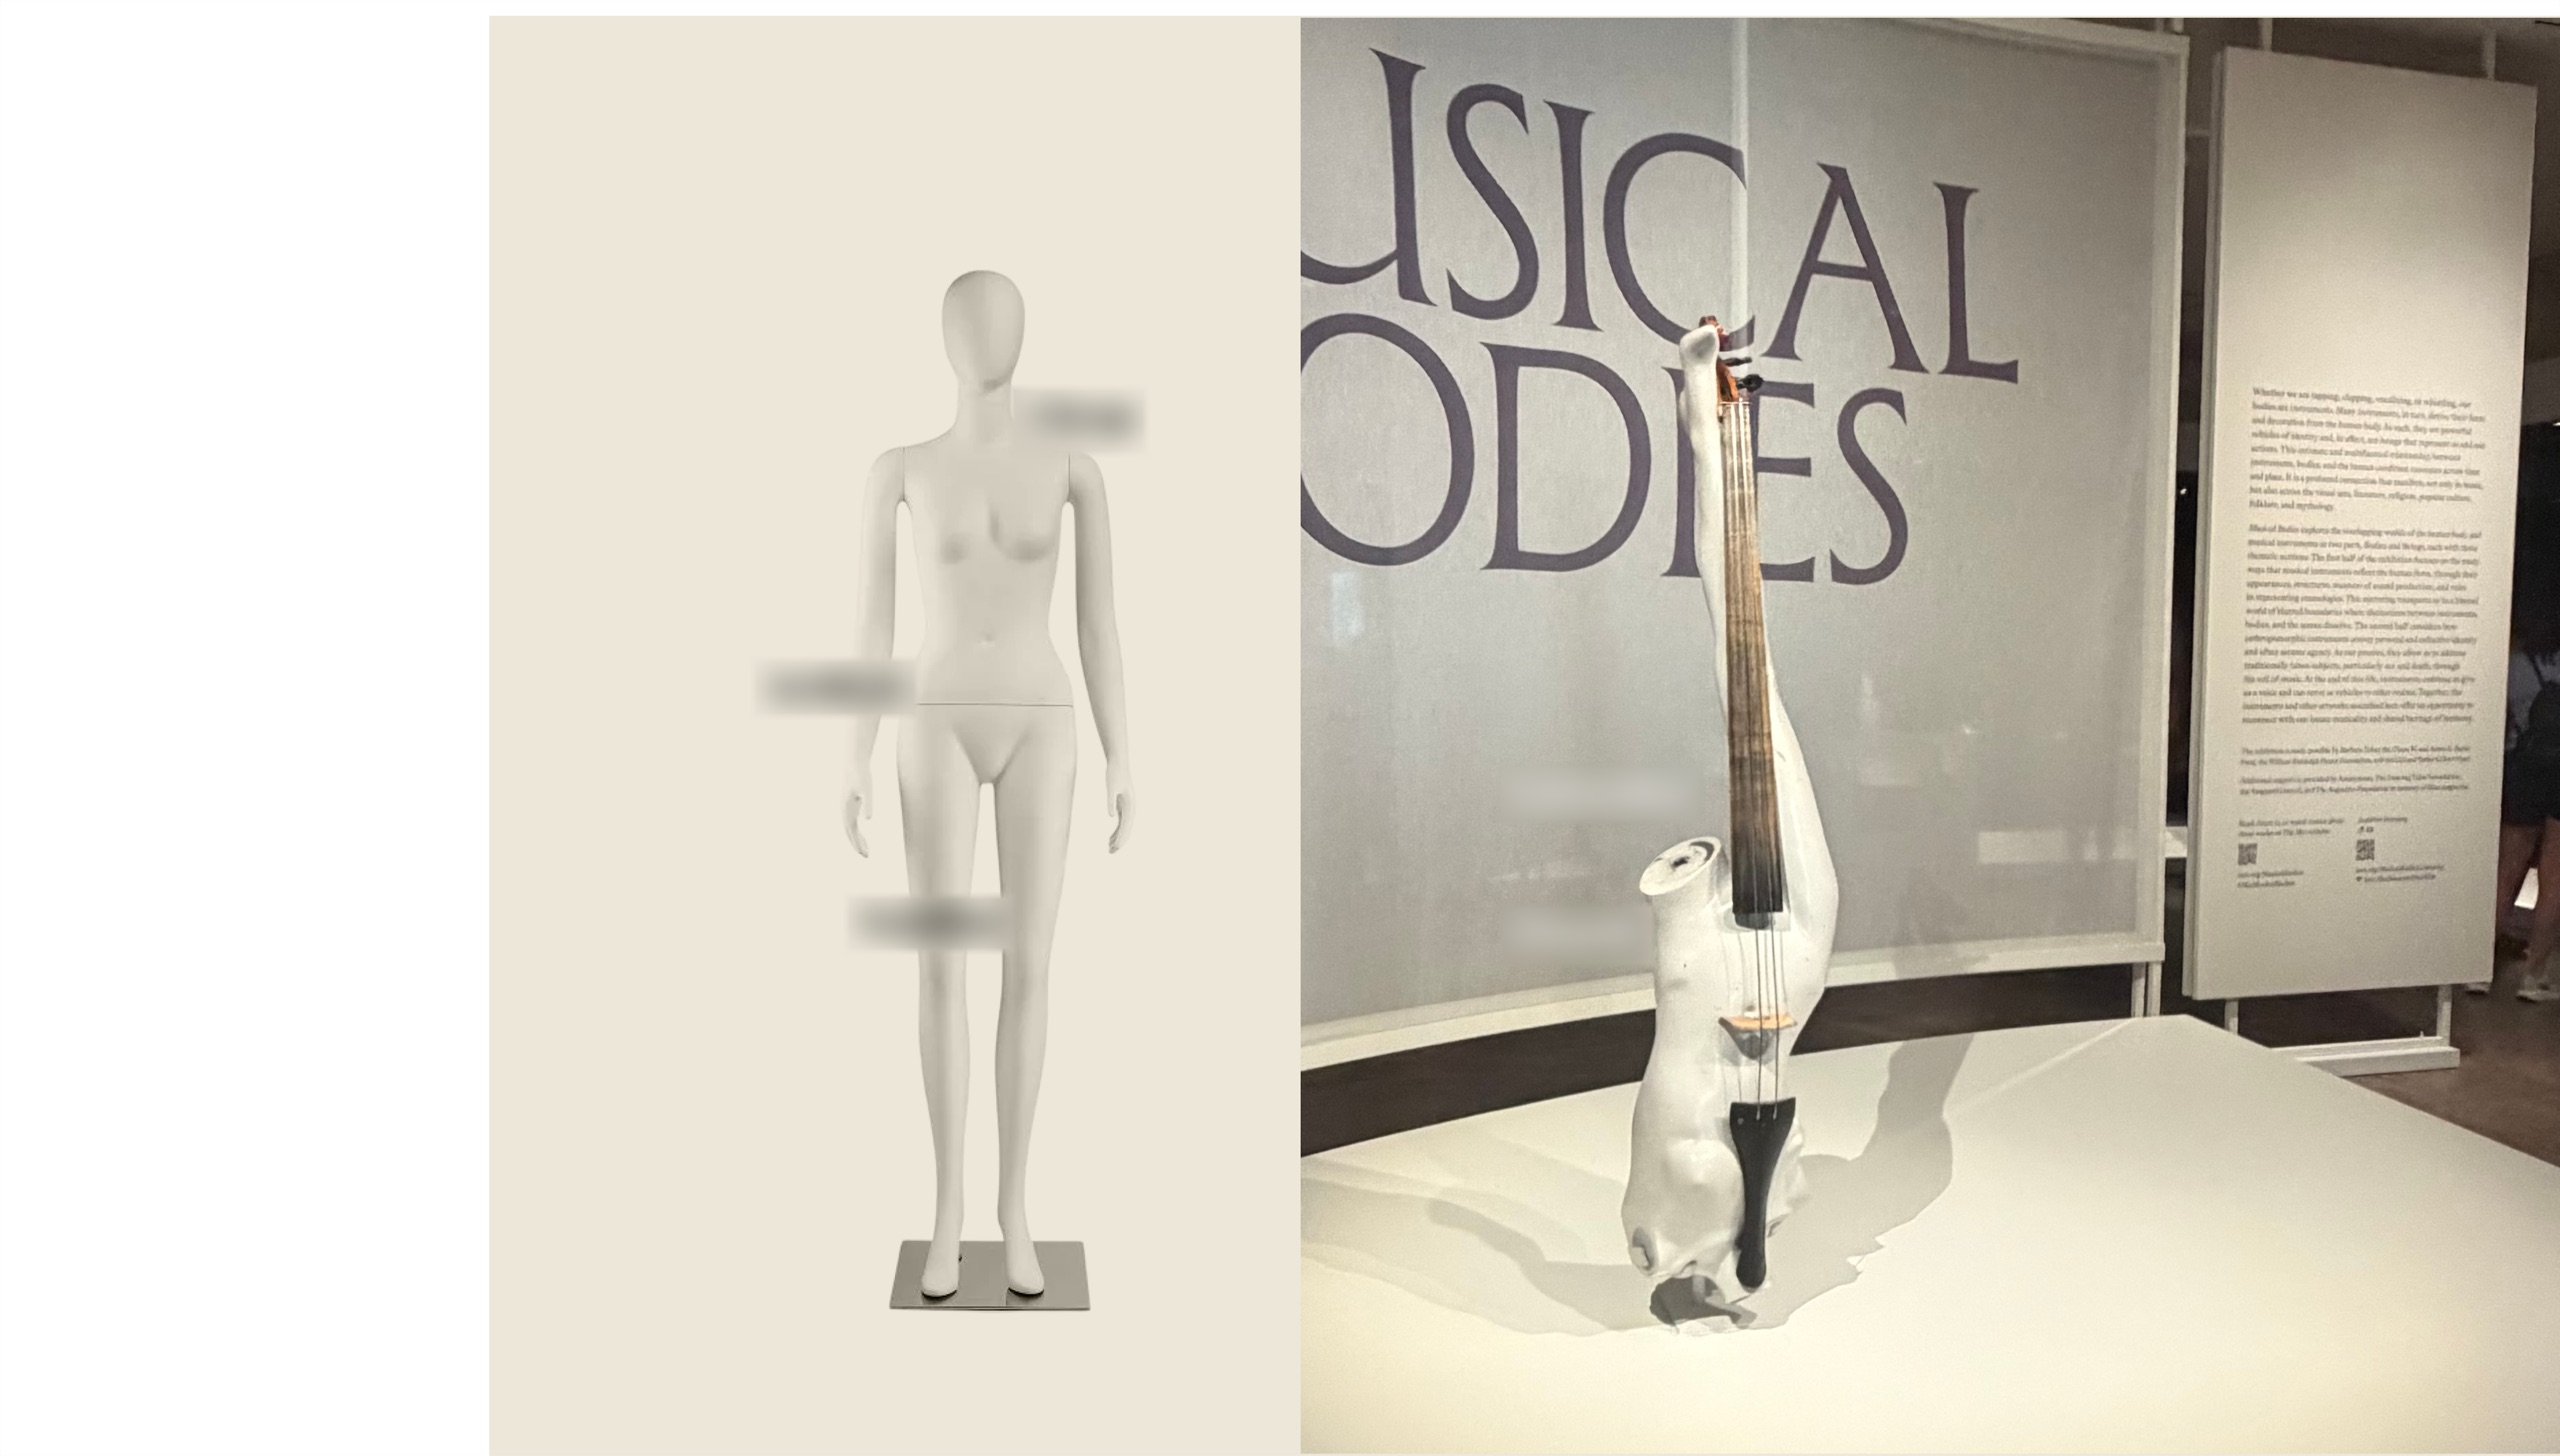
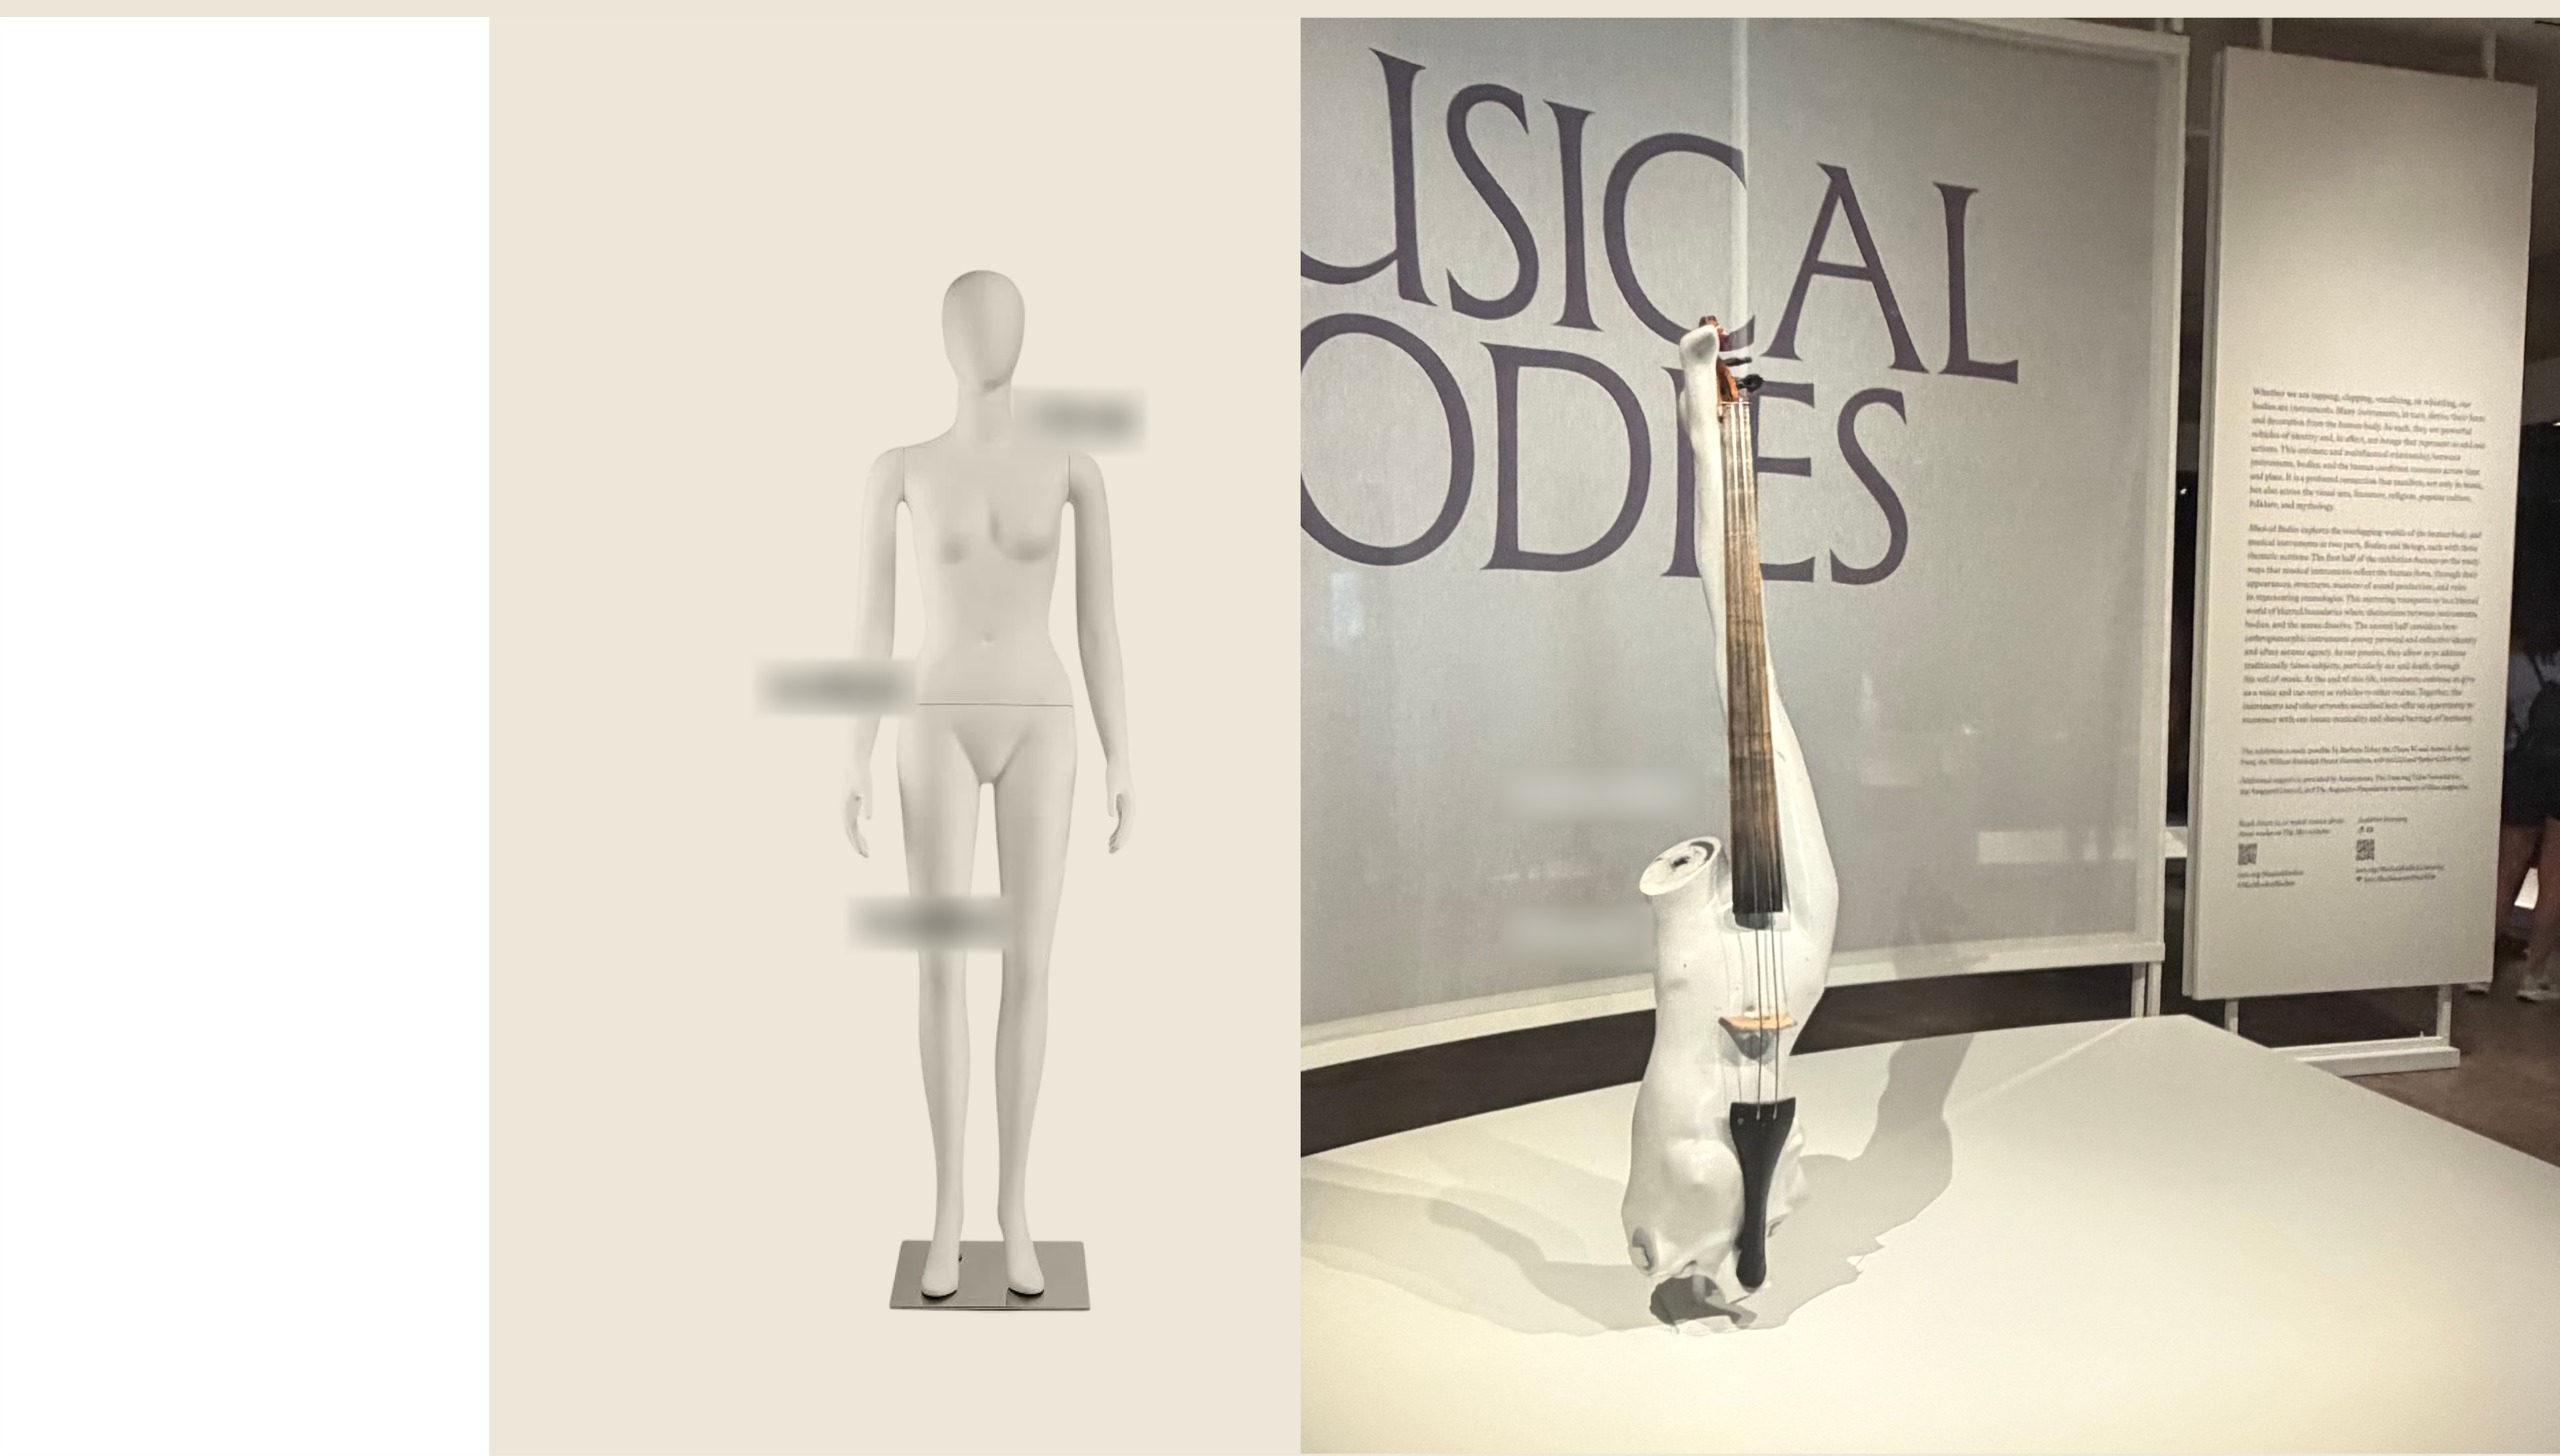
Fill white top edges of section 1 and 6 photos with background beige

Changed region(s): [[0.0, 0.0, 1.0, 0.0309]]

diff --git a/index.html b/index.html
@@ -32,8 +32,8 @@
   <!-- ============ SECTION 1 ============ -->
   <section class="panel s1" id="s1">
     <div class="stage">
-    <img class="plate" src="assets/section-1.jpg?v=20261012b" alt="Ken Butler, Mannequin Bass">
-      <div style="position:absolute;right:3%;top:28%;width:25%;aspect-ratio:1/1;">
+    <img class="plate" src="assets/section-1.jpg?v=20261012e" alt="Ken Butler, Mannequin Bass">
+      <div style="position:absolute;right:3%;top:18%;width:25%;aspect-ratio:0.697;">
         <video src="assets/section11.mp4?v=20261012hd" autoplay muted loop playsinline style="position:absolute;left:25.2%;top:17.7%;width:51.4%;height:63.6%;object-fit:cover;"></video>
         <img src="assets/frame.png?v=20261012d" style="position:absolute;inset:0;width:100%;height:100%;" alt="">
       </div>
@@ -123,7 +123,7 @@
   <!-- ============ SECTION 6 ============ -->
   <section class="panel s6" id="s6">
     <div class="stage" style="--amp:calc(var(--su)*1.5);">
-    <img class="plate" src="assets/section-6.jpg?v=20261012b" alt="Cheap / artificial / familiar &mdash; elegant / unfamiliar">
+    <img class="plate" src="assets/section-6.jpg?v=20261012e" alt="Cheap / artificial / familiar &mdash; elegant / unfamiliar">
     <div class="fx" style="--amp:calc(1.2 * 0.5625vw);">
       <div class="fl fl-ov" data-sp="0.22" style="--x:39.9;--y:26.6;--amp:calc(0.55 * 0.5625vw)">
         <p class="lbl" style="font-size:calc(3.1 * 0.5625vw);color:#1c1a16">Cheap</p>
